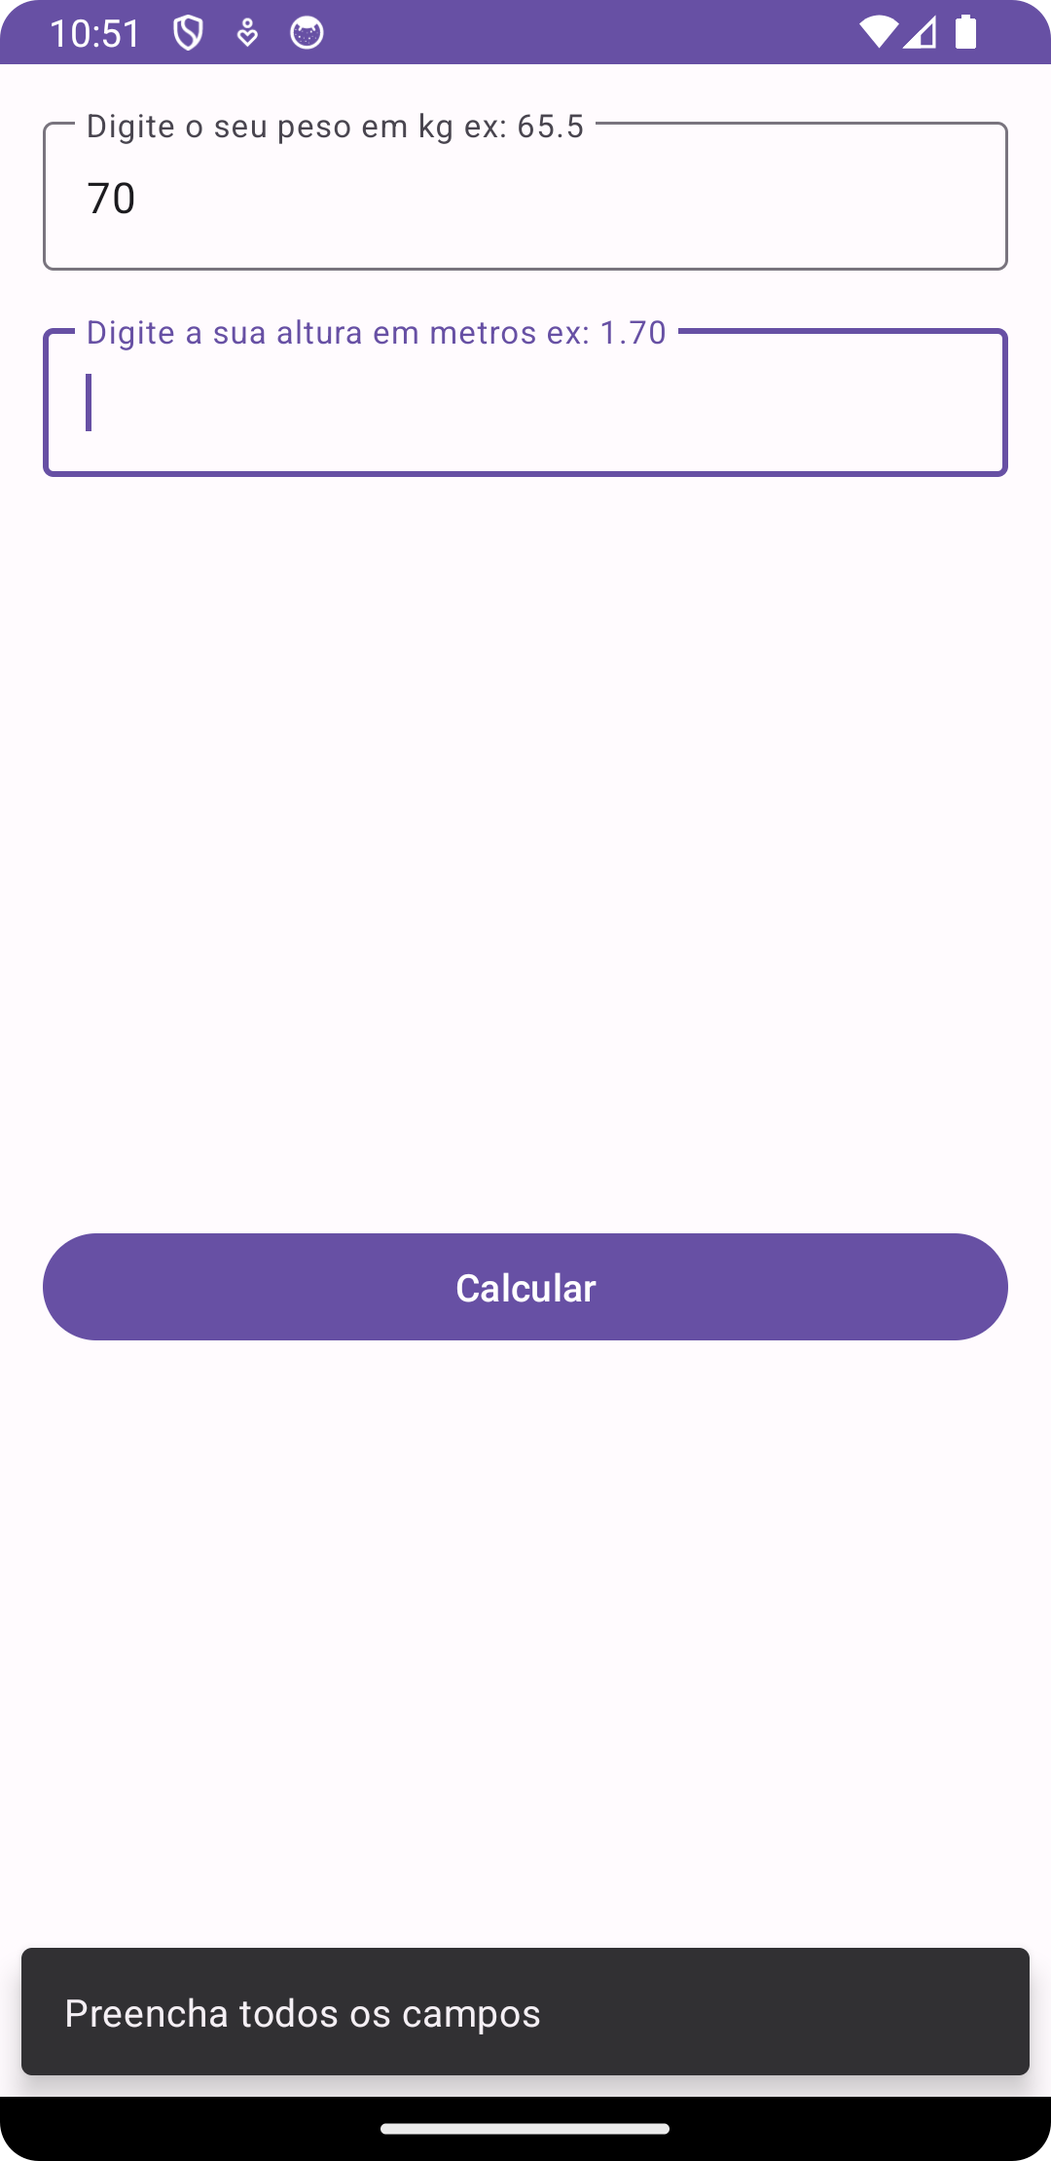
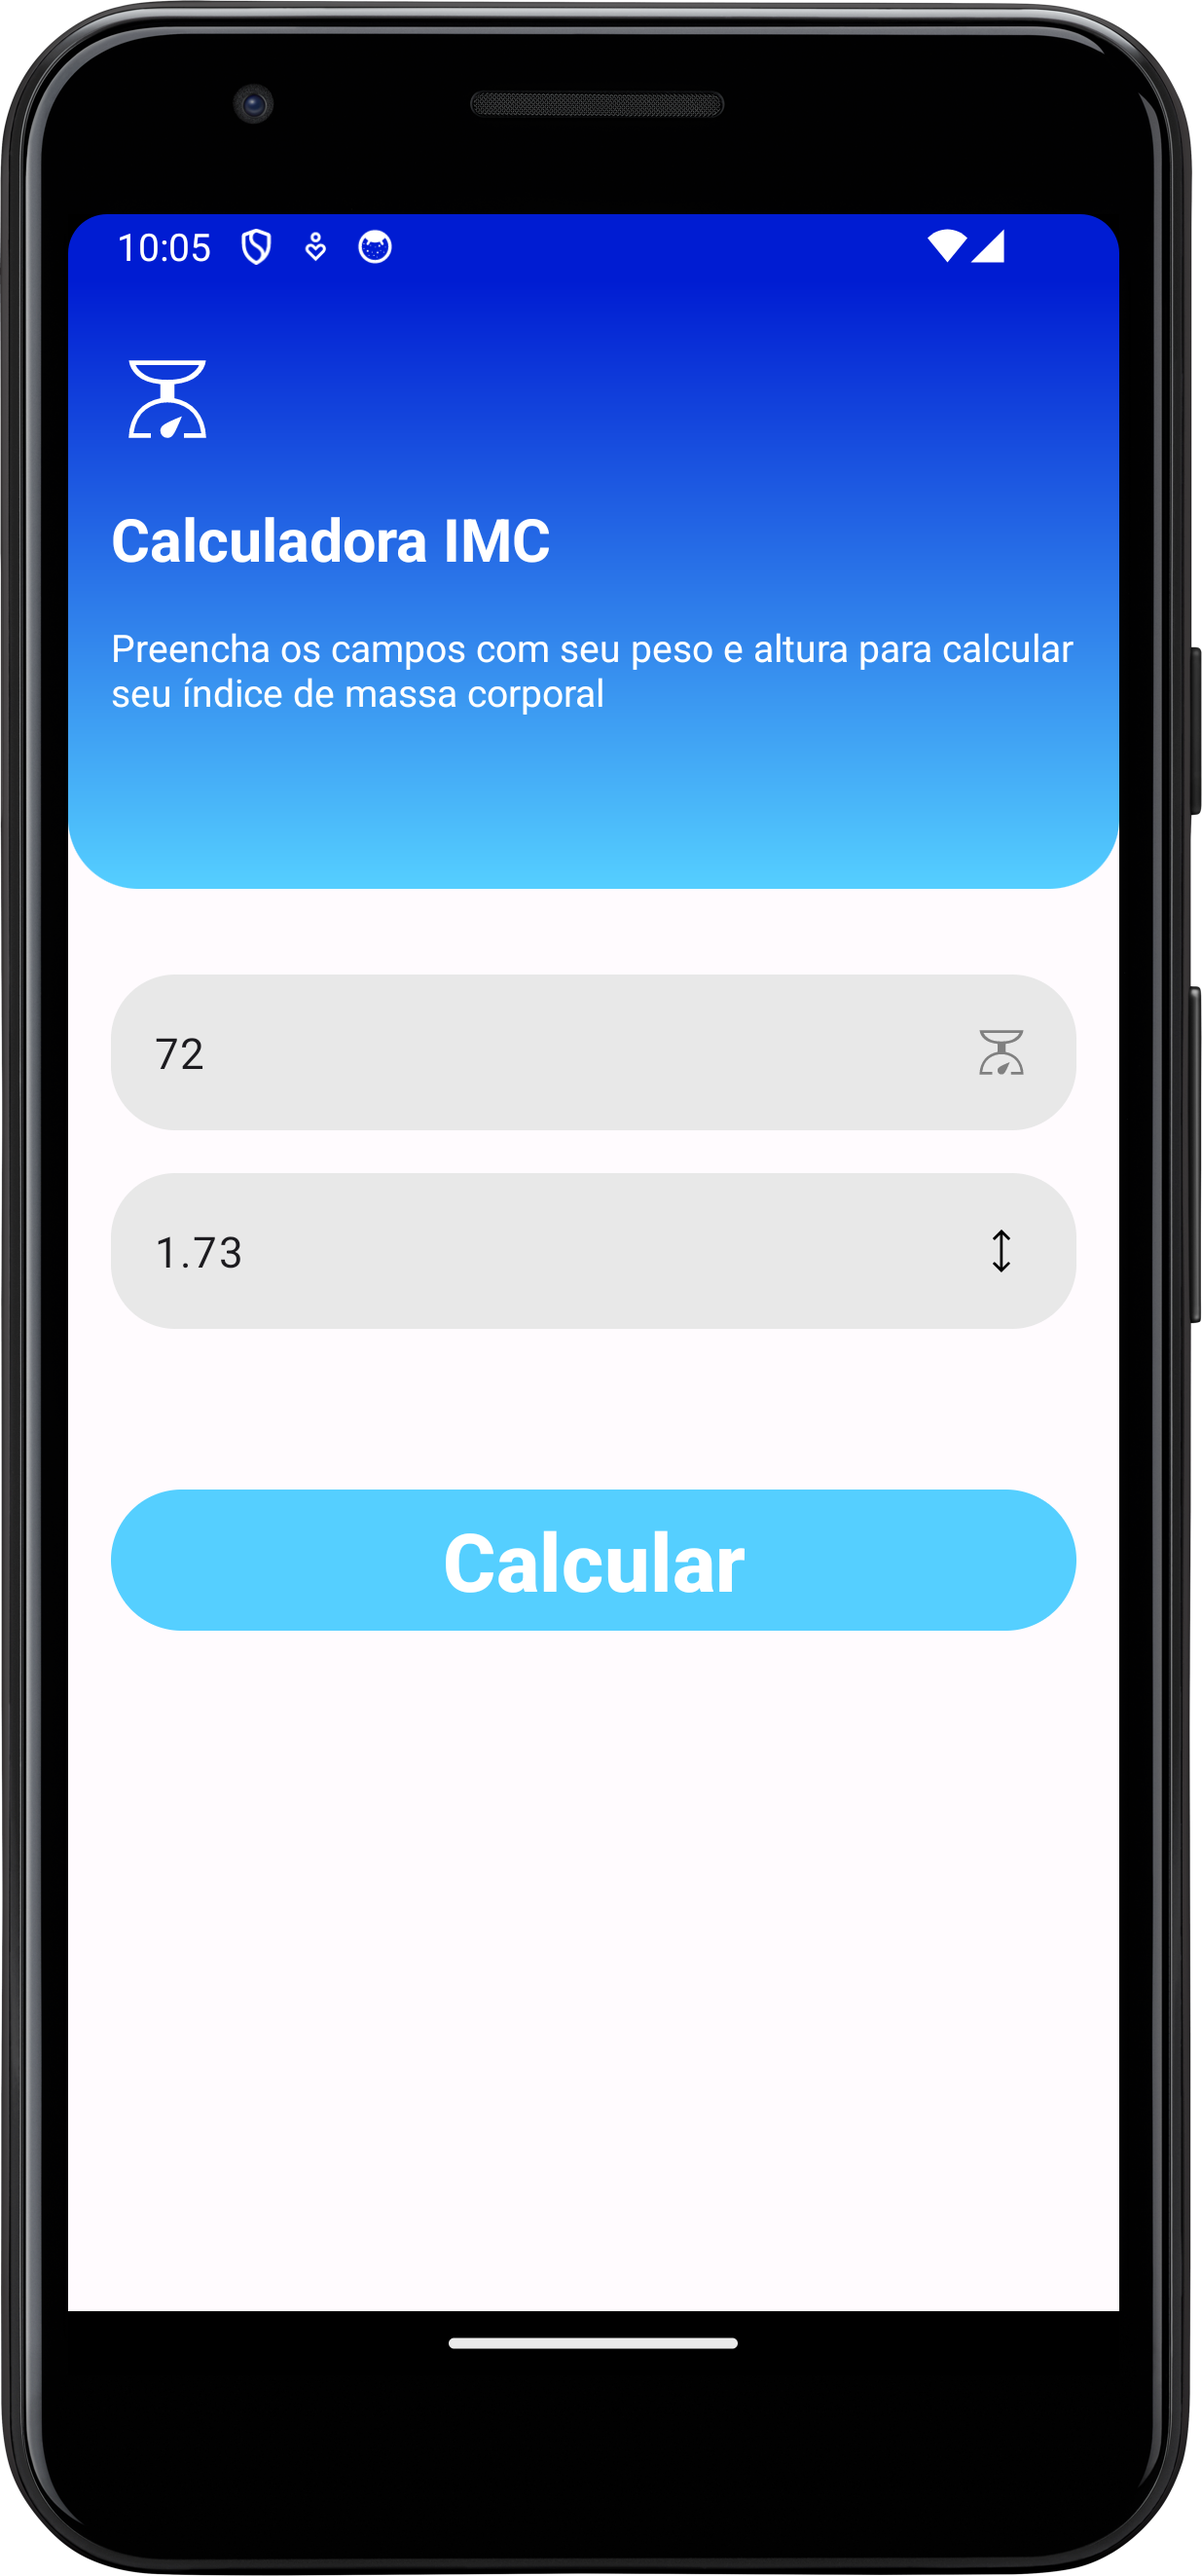
Terminando o layout da segunda tela e editanto cores

diff --git a/app/src/main/java/com/comunidadedevspace/imc/ResultActivity.kt b/app/src/main/java/com/comunidadedevspace/imc/ResultActivity.kt
@@ -15,7 +15,7 @@ class ResultActivity : AppCompatActivity() {
 
         val result = intent.getFloatExtra(KEY_RESULT_IMC, 0f)
 
-        val tvResult = findViewById<TextView>(R.id.tv_result)
+        val tvResult = findViewById<TextView>(R.id.tv_resultado)
         val tvClassificacao = findViewById<TextView>(R.id.tv_classificacao)
 
         tvResult.text = result.toString()
